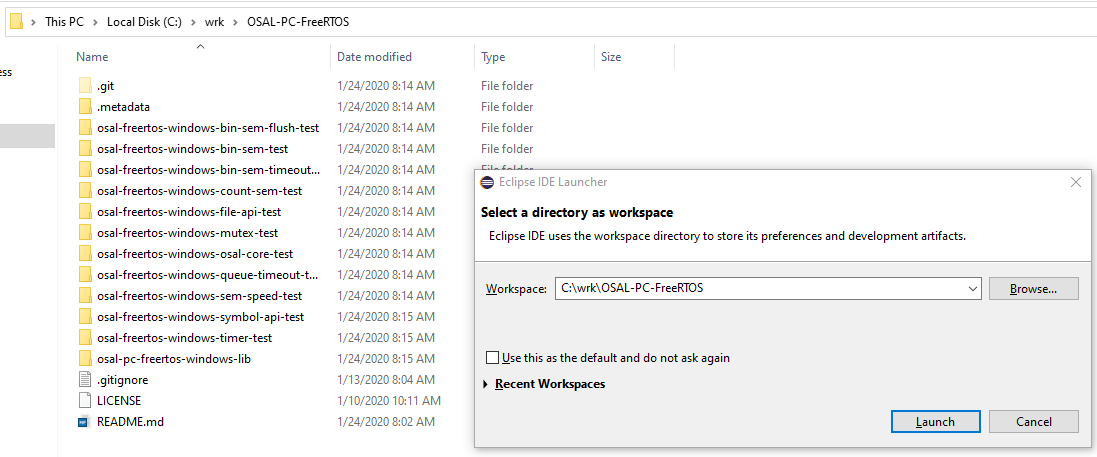
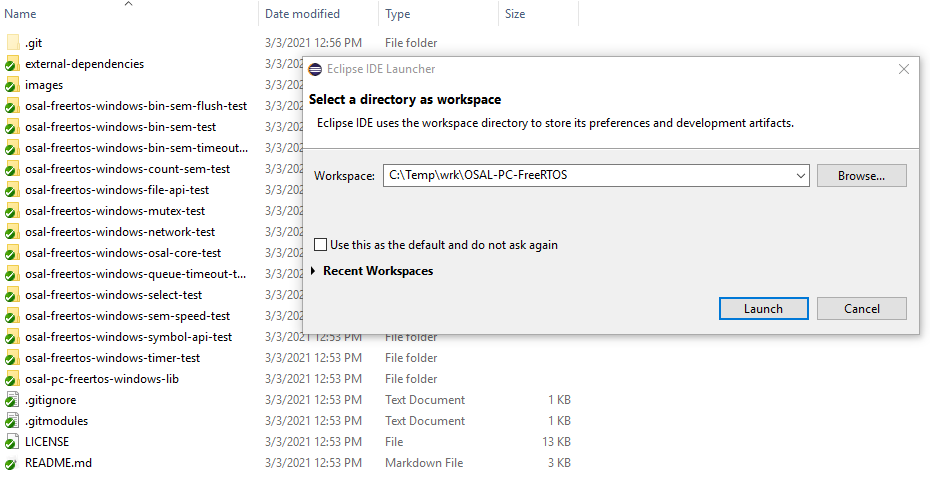
Update README

Changed region(s): [[0.0, 0.0, 1.0, 1.0], [0.4366, 0.6127, 0.6548, 0.6433]]

diff --git a/README.md b/README.md
@@ -1,53 +1,46 @@
 ## OSAL for FreeRTOS ##
 This repository contains an OSAL for FreeRTOS, specifically FreeRTOS running in the FreeRTOS Windows Simulator.
 ### Getting Started ###
-1. The OSAL for FreeRTOS was built with MinGW-w64 from [https://sourceforge.net/projects/mingw-w64/](https://sourceforge.net/projects/mingw-w64/) using the following configuration.
+1. The OSAL for FreeRTOS was built with MinGW-w64 from [https://sourceforge.net/projects/mingw-w64/](https://sourceforge.net/projects/mingw-w64/) using the following configuration. Newer versions should work.
 
 	![](images/MinGW.png)
 
-2. In preparation for adding network connectivity, FreeRTOS is built with FreeRTOS-TCP, requiring both **Npcap**, version 0.9986 as of this writing, and **Npcap SDK**, version 1.04 as of this writing, from [https://nmap.org/npcap/](https://nmap.org/npcap/).
 
-	![](images/Npcap.png)
+2. Clone the OSAL for FreeRTOS and checkout the OSAL 5.0.0 compatible tag.
 
-3. Clone FreeRTOS. The OSAL for FreeRTOS was built and tested against FreeRTOSv10.2.1_191129, available at [https://github.com/METECS/FreeRTOS.git](https://github.com/METECS/FreeRTOS.git).
+   `git clone https://github.com/METECS/OSAL-PC-FreeRTOS.git`
 
-	`cd \wrk`  
-    `git clone https://github.com/METECS/FreeRTOS.git`
+   `cd OSAL-PC-FreeRTOS/`
 
+   `git checkout v5.0.0_compatible`
 
-	![](images/Clone_FreeRTOS.png)
+   `git submodule sync --recursive`
 
-4. Clone the OSAL framework. The OSAL for FreeRTOS was built and tested against OSAL 5.0.3, available at [https://github.com/METECS/osal.git](https://github.com/METECS/osal.git).
+   `git submodule update --init --recursive`
 
-	`cd \wrk`  
-	`git clone https://github.com/METECS/osal.git`
+   ![](images\Checkout_OSAL.png)
 
+![](images\Checkout_OSAL2.png)
 
-	![](images/Clone_OSAL.png)
-
-5. Clone the OSAL for FreeRTOS.
-
-	`cd \wrk`  
-	`git clone https://github.com/METECS/OSAL-PC-FreeRTOS.git`
-
-	![](images/Clone_OSAL_for_FreeRTOS.png)
-
-6. In Eclipse, version 2019-12 as of this writing, specify the OSAL for FreeRTOS location as the workspace.
+6. In Eclipse, specify the OSAL for FreeRTOS location as the workspace. Eclipse version 2019-12 is being used at this time but more recent versions should work as well.
 
 	![](images/Workspace.png)
 
-7. In each and every project, modify the project properties to change the linked resources to point to the location of FreeRTOS and the OSAL framework.
+7. Import the projects into the Eclipse workspace.
 
-	![](images/Project_Links.png)
+	![](C:\OSAL-PC-FreeRTOS\images\Import_Projects.png)
 
-	-or-
+8. Build the OSAL library and unit tests.
 
-	![](images/Project_Links2.png)
+	![](C:\OSAL-PC-FreeRTOS\images\Build.png)
+	
+4. Run the desired unit test.
 
-8. Build and run the each unit test.
+  ![](C:\OSAL-PC-FreeRTOS\images\Run.png)
 
-	![](images/Run_Test.png)
+5. Observe the results.
 
+   ![](images\Results.png)
 
 ### Limitations ###
 
@@ -57,10 +50,8 @@ This repository contains an OSAL for FreeRTOS, specifically FreeRTOS running in 
 
 - The file system unit tests must be modified to accommodate the requirements of FreeRTOS-FAT. Specifically, the minimum file system size is approximately 5000 blocks and the volume name must begin with a `/`.
 
-- This current version of OSAL for FreeRTOS does not use the shared functions, found in `src\os\shared` of the OSAL framework.
+- This OSAL does not support the networking or select functionality. As a result, the networking and select unit tests will not build.
 
 ### Future Plans ###
-
-- Enhance the OSAL for FreeRTOS to use the shared functions of the OSAL framework.
 
 - If the OSAL framework is released under the Apache license, change the OSAL for FreeRTOS license to Apache. 
